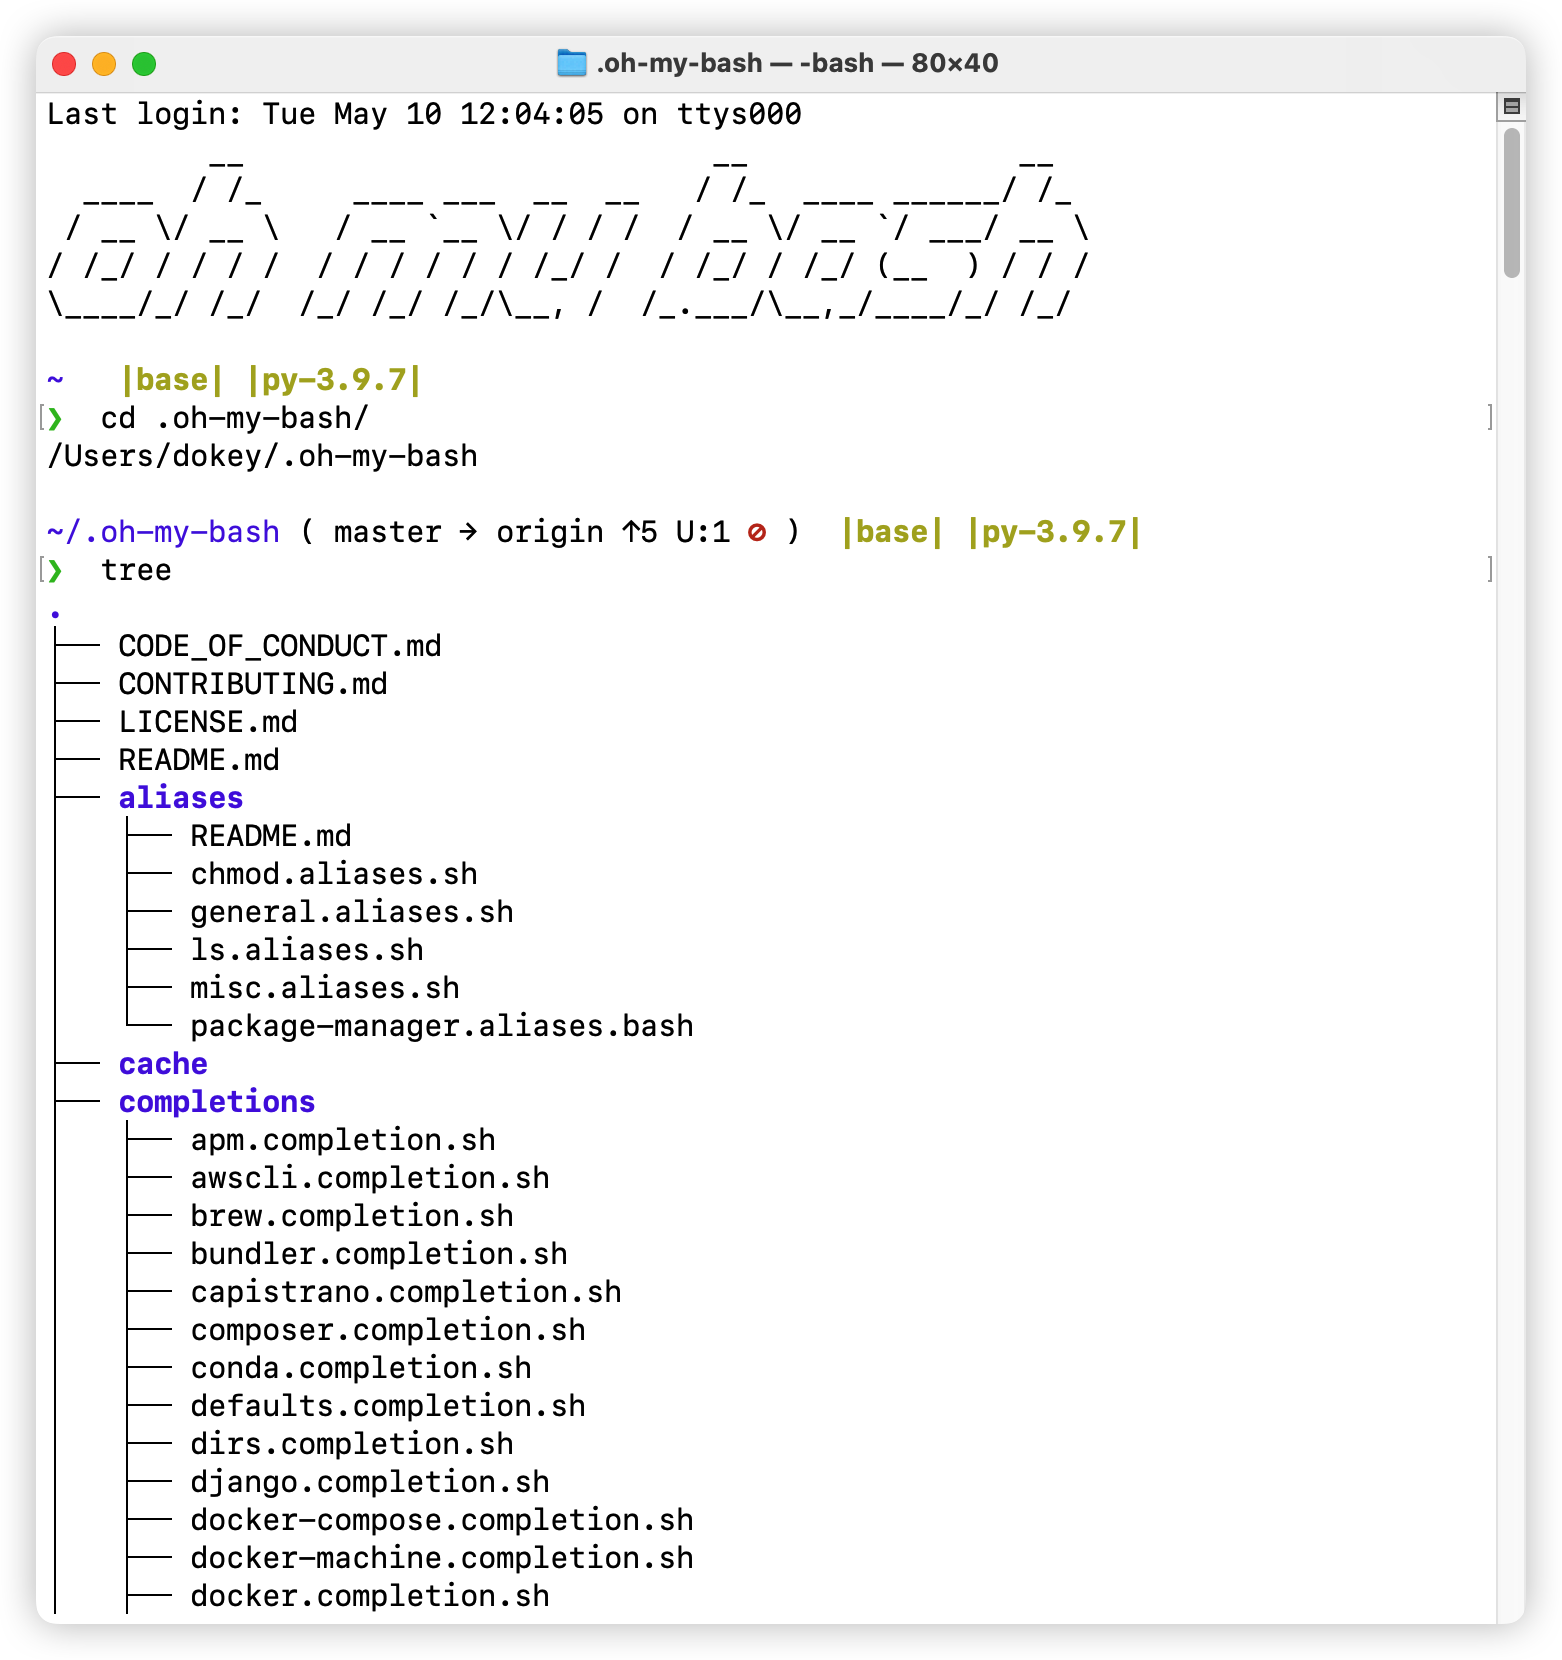
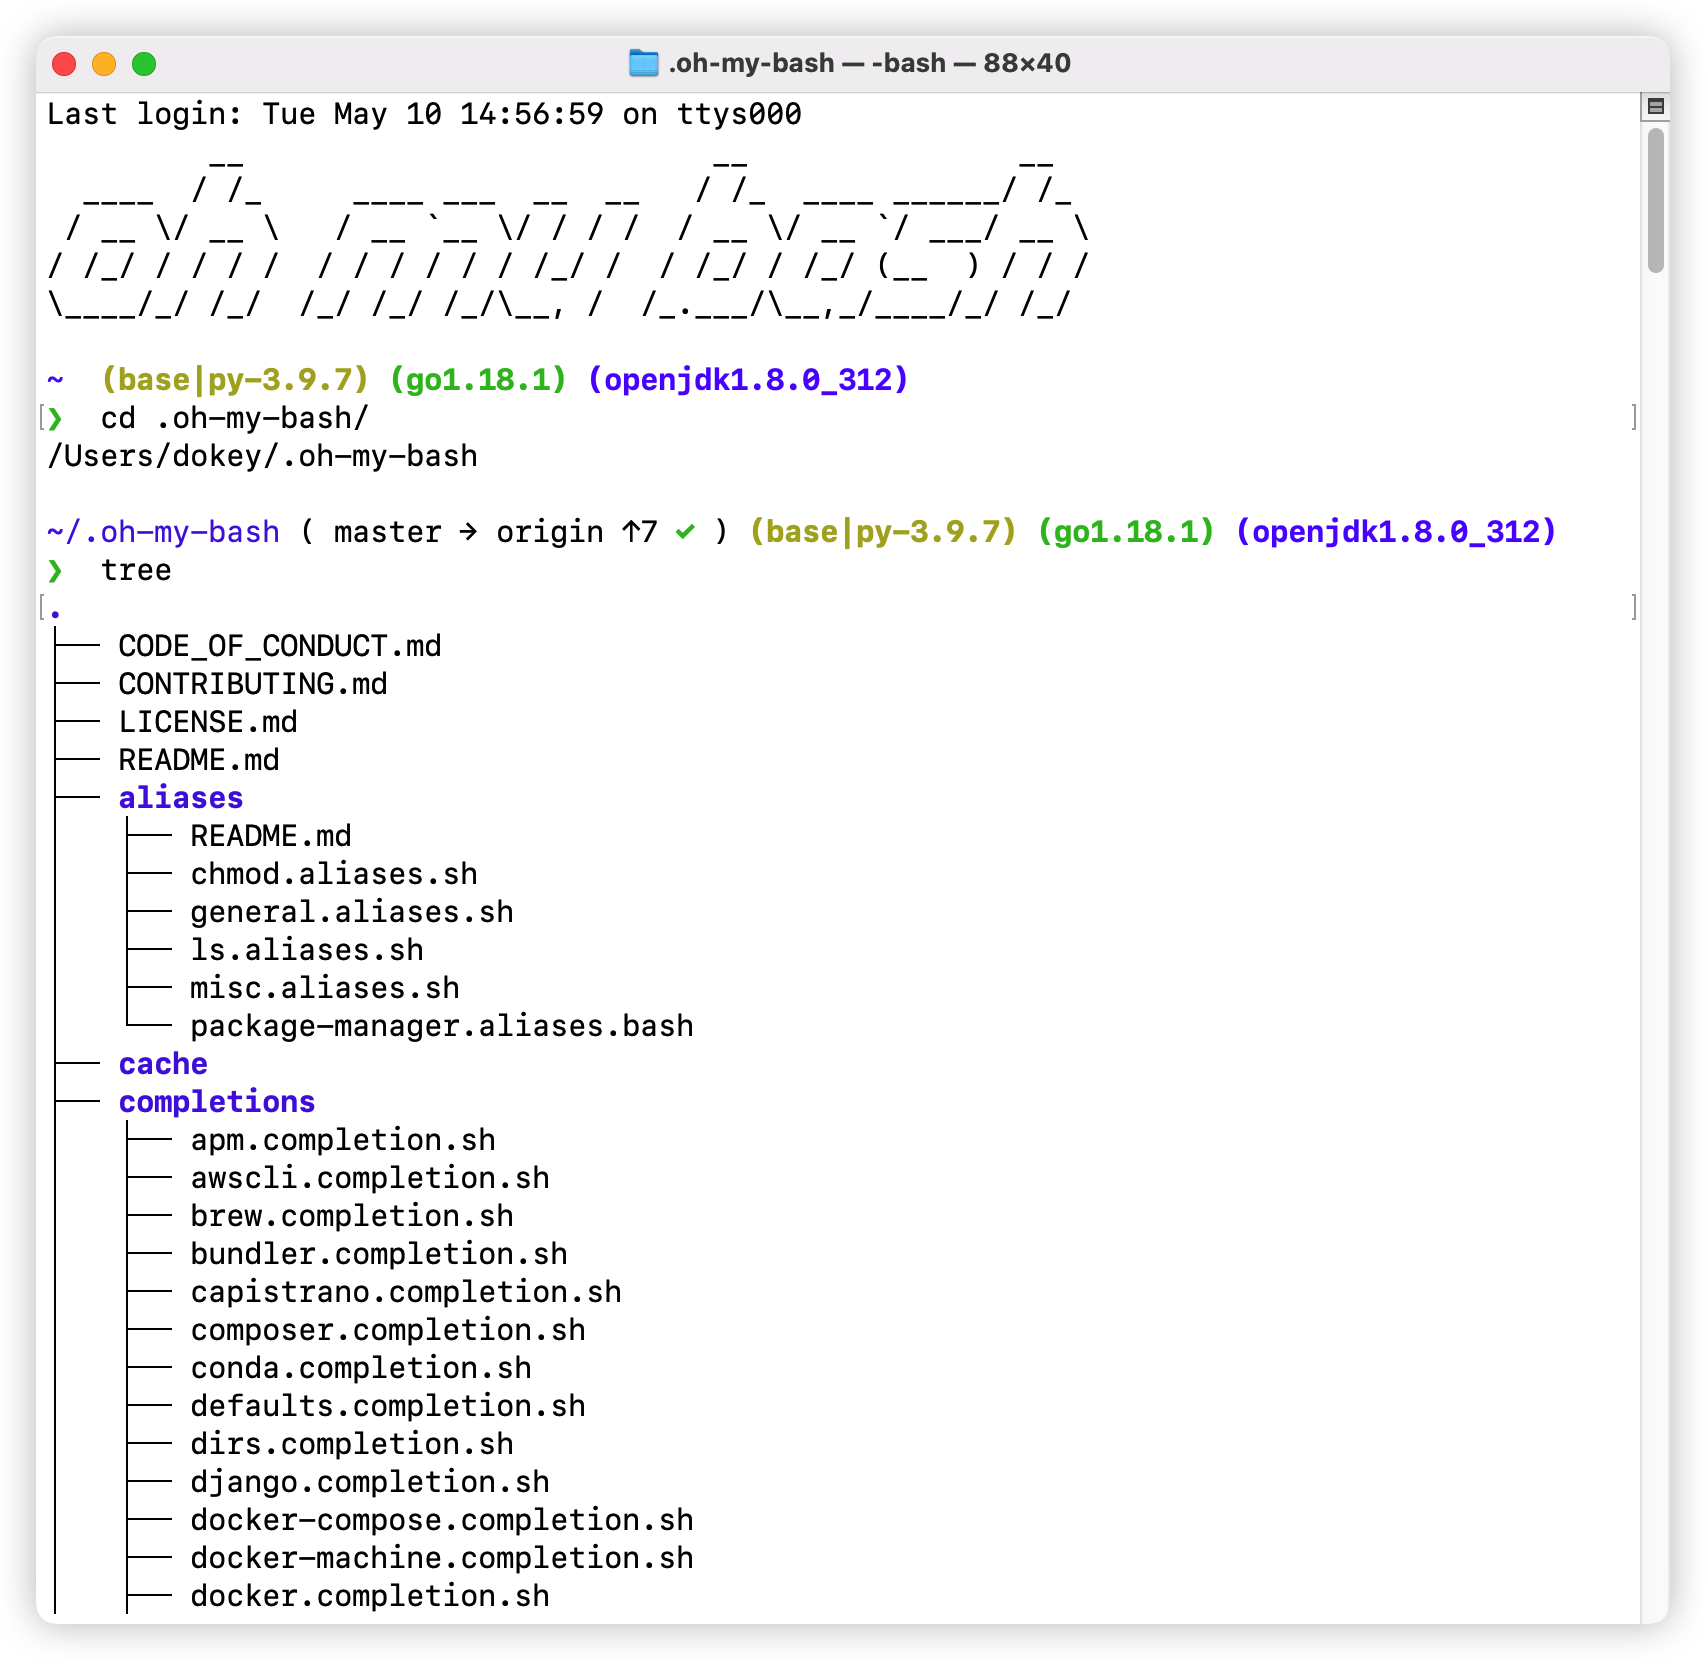
增加go和java环境的显示

diff --git a/README.md b/README.md
@@ -8,7 +8,7 @@
 
 2. 添加.vimrc文件，修改安装脚本，会额外拷贝.vimrc到家目录下，在.vimrc中额外添加了vim-plug插件的一些配置；
 
-3. 修改purity主题，增加了python（venv、condaenv、pyenv）环境的展示，主题存放在custom/themes/purity主题下。
+3. 修改purity主题，增加了python（venv、condaenv、pyenv）、go、java环境的展示，主题存放在custom/themes/purity主题下。
 
 4. 增加了自定义的alias：
     - 在默认ls.aliases.sh的基础上，修改了常用的别名命令，主要是对默认设置增加了--color=always参数，让输出渲染颜色，更加好看，其次，没有添加-h参数的，额外加上-h参数，让文件大小显示为PB/TB/GB/MB/KB/B，方便阅读文件大小。额外增加 `lmod` 命令，该命令在原先 `ls -lah` 的基础上，通过awk处理，额外打印出文件/目录的访问权限数字展示，方便查看文件(夹)的权限信息。增加 `dsh`、`dfh` 别名命令。
@@ -18,7 +18,7 @@
 
 没有git仓库时：
 
-![example1](img/example1_purity.jpg)
+![example1](img/example1_purity.png)
 
 有git仓库时：
 
